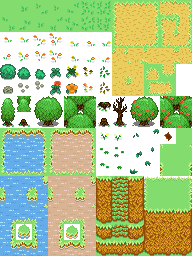
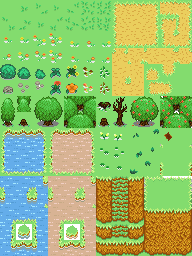
using grassy terrain

Changed region(s): [[0.0, 0.125, 0.9375, 0.7188], [0.9062, 0.25, 1.0, 0.375], [0.4062, 0.4375, 0.4375, 0.4688]]

diff --git a/src/main/java/com/kamilkurp/terrain/Terrain.java b/src/main/java/com/kamilkurp/terrain/Terrain.java
@@ -65,7 +65,6 @@ public class Terrain implements Renderable {
         for (int i = 0; i < tilesetRows; i++) {
             for (int j = 0; j < tilesetColumns; j++) {
                 String code = String.format ("%03d%03d", i, j);
-                System.out.println("adding terrain image: " + j + " " + i);
                 if (i < passableRows && j < passableColumns) {
                     addTerrainImage(code, j, i, passable[i][j].equals("0"));
                 }

diff --git a/src/main/java/com/kamilkurp/SimpleSlickGame.java b/src/main/java/com/kamilkurp/SimpleSlickGame.java
@@ -84,7 +84,7 @@ public class SimpleSlickGame extends BasicGame {
         dungeonTerrain.loadLayout();
 
 
-        grassyTerrain = new Terrain(16, 16, 10, 11, 4);
+        grassyTerrain = new Terrain(16,16,12,16,4);
         grassyTerrain.loadTerrain("grassyTerrain.txt");
         grassyTerrain.loadPassable("grassyTileset_passable.txt");
         grassyTerrain.loadSpriteSheet("Tilemapnew.png");

diff --git a/src/main/java/com/kamilkurp/map_editor/MapEditor.java b/src/main/java/com/kamilkurp/map_editor/MapEditor.java
@@ -46,7 +46,7 @@ public class MapEditor extends BasicGame {
 
         terrainFile = "grassyTerrain.txt";
 
-        terrain = new Terrain(16,16,10,11,4);
+        terrain = new Terrain(16,16,12,16,4);
         terrain.loadTerrain(terrainFile);
         terrain.loadPassable("grassyTileset_passable.txt");
         terrain.loadSpriteSheet("Tilemapnew.png");

diff --git a/src/main/java/com/kamilkurp/assets/Assets.java b/src/main/java/com/kamilkurp/assets/Assets.java
@@ -1,0 +1,9 @@
+package com.kamilkurp.assets;
+
+public class Assets {
+    public static int d;
+
+    public static void loadAssets() {
+
+    }
+}
